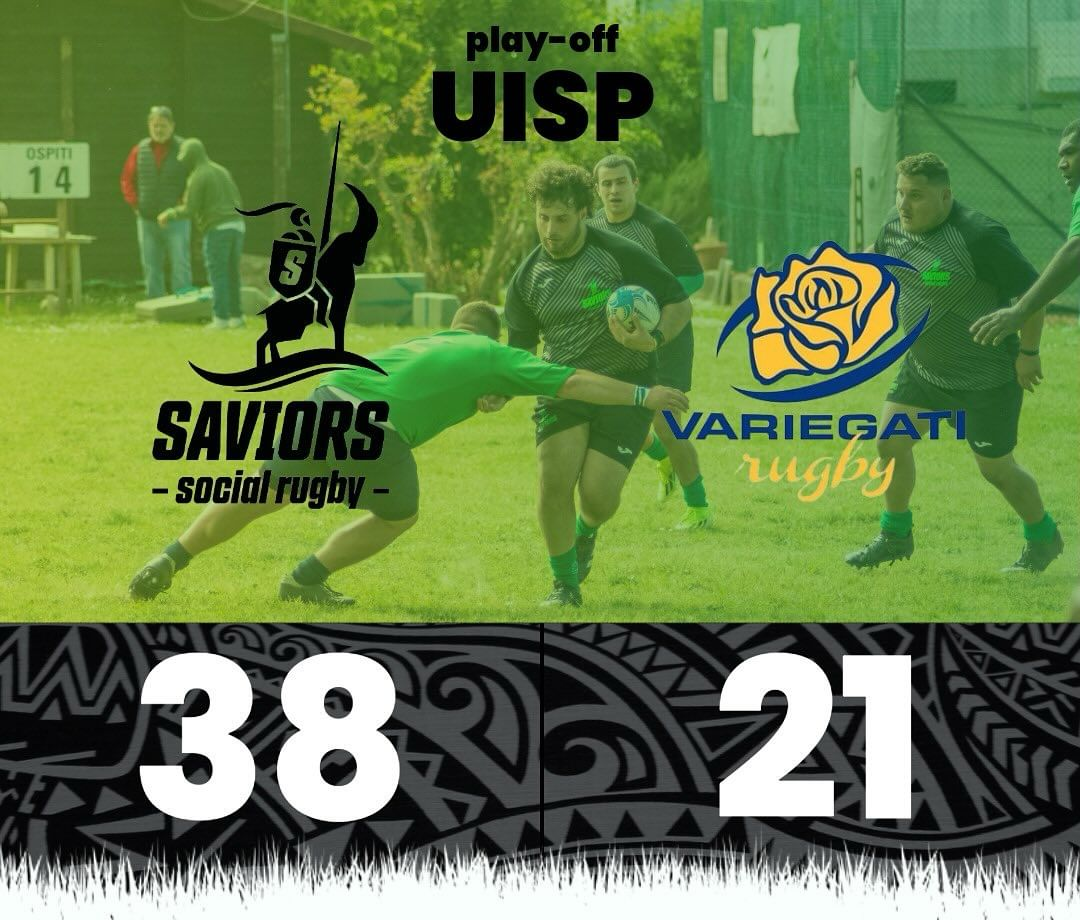
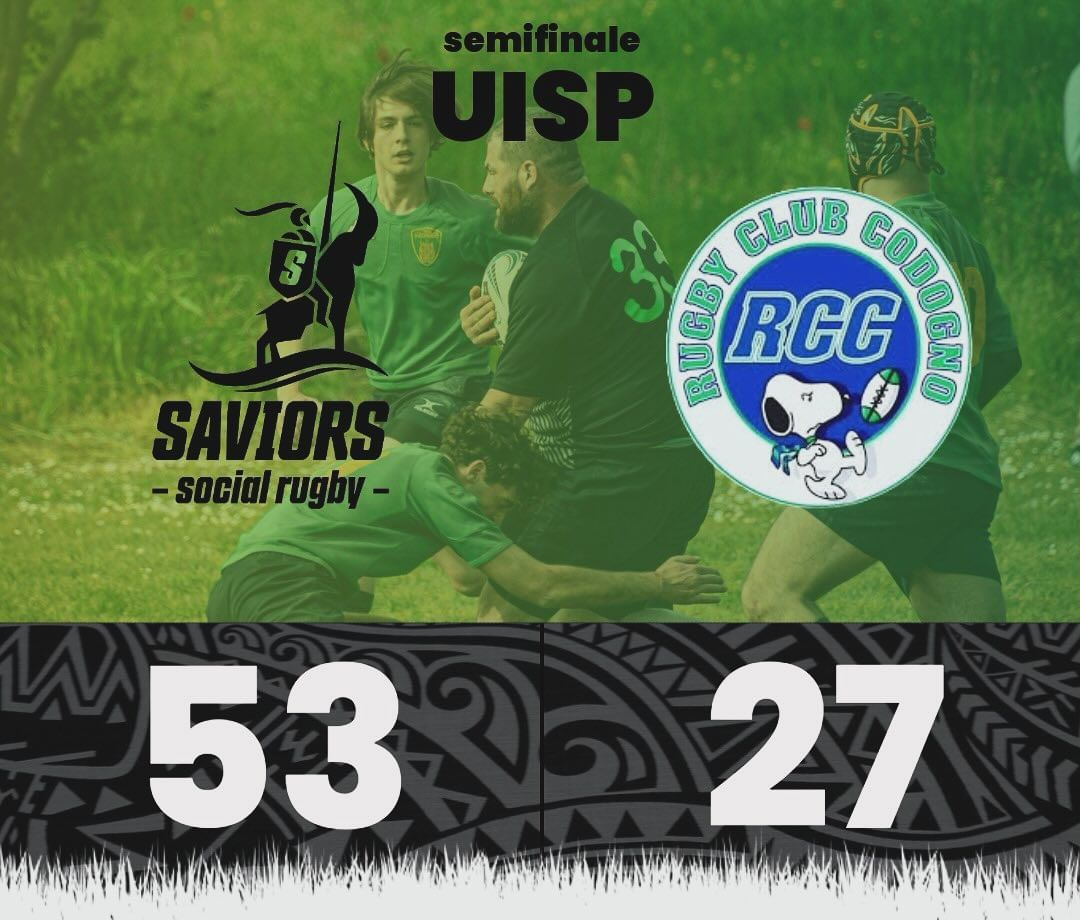
updates

diff --git a/content/posts/championship/20232024/index.md b/content/posts/championship/20232024/index.md
@@ -46,17 +46,17 @@ weight: 3
 
 ### Semifinale Gold 1 - 05/05/2023
 
-|                              | VS  |                           | Risultato | Mete | Orario |
-| ---------------------------- | --- | ------------------------- | --------- | ---- | ------ | -------------------------- |
-| Rondoni Rugby ASD            | VS  | Stella Rossa Rugby Milano | -         | -    | 15:00  | Robegano (VE)              |
-| **Saviors Social Rugby ASD** | VS  | Rugby Club Codogno        | -         | -    | 15:00  | Via Roversano 2815, Cesena |
+|                              | VS  |                           | Risultato | Mete  | Orario |
+| ---------------------------- | --- | ------------------------- | --------- | ----- | ------ | -------------------------- |
+| Rondoni Rugby ASD            | VS  | Stella Rossa Rugby Milano | 16 - 12   | 1 - 0 | 15:00  | Robegano (VE)              |
+| **Saviors Social Rugby ASD** | VS  | Rugby Club Codogno        | 53 - 27   | 8 - 4 | 15:00  | Via Roversano 2815, Cesena |
 
 ### Semifinale Bowl 1 - 05/05/2023
 
-|                   | VS  |                  | Risultato | Mete | Orario |
-| ----------------- | --- | ---------------- | --------- | ---- | ------ | -------- |
-| A.S. Rugby Milano | VS  | Putei Veci Rugby | -         | -    | 15:00  | Milano   |
-| LionSabres        | VS  | Variegati Rugby  | -         | -    | 15:00  | Rho (MI) |
+|                   | VS  |                  | Risultato | Mete  | Orario |
+| ----------------- | --- | ---------------- | --------- | ----- | ------ | -------- |
+| A.S. Rugby Milano | VS  | Putei Veci Rugby | 9 - 17    | 0 - 3 | 15:00  | Milano   |
+| LionSabres        | VS  | Variegati Rugby  | 14 - 31   | 2 - 5 | 15:00  | Rho (MI) |
 
 ### Quarti di Finale - 21/04/2023
 

diff --git a/content/posts/last-match/index.md b/content/posts/last-match/index.md
@@ -1,5 +1,5 @@
 ---
-title: Ultimo Match<br/>Saviors vs Variegati (38 - 21)
+title: Ultimo Match<br/>Saviors vs Codogno (53 - 27)
 date: "2023-11-12"
 sharingLinks:
   - facebook
@@ -7,16 +7,16 @@ sharingLinks:
   - telegram
 tags:
   - Saviors
-  - Variegati
+  - Codogno
 showDate: false
 showHeadingAnchors: false
 showHero: false
 weight: 1
 ---
 
-| Giornata | Data       | Casa                         | Ospiti          | Orario | Indirizzo          |
-| -------- | ---------- | ---------------------------- | --------------- | ------ | ------------------ |
-| Quarto 4 | 21/04/2024 | **Saviors Social Rugby ASD** | Variegati Rugby | 15:30  | Via Roversano 2815 |
+| Giornata          | Data       | Casa                         | Ospiti             | Orario | Indirizzo                  |
+| ----------------- | ---------- | ---------------------------- | ------------------ | ------ | -------------------------- |
+| Semifinale Gold 1 | 05/05/2024 | **Saviors Social Rugby ASD** | Rugby Club Codogno | 16:00  | Via Roversano 2815, Cesena |
 
 ![](./featured.jpg)
 

diff --git a/content/posts/next-match/index.md b/content/posts/next-match/index.md
@@ -1,5 +1,5 @@
 ---
-title: Prossimo Match<br/>Saviors vs Codogno
+title: Prossimo Match<br/>Codogno vs Saviors
 date: "2023-11-12"
 sharingLinks:
   - facebook
@@ -14,9 +14,9 @@ showHero: false
 weight: 1
 ---
 
-| Giornata          | Data       | Casa                         | Ospiti             | Orario | Indirizzo                  |
-| ----------------- | ---------- | ---------------------------- | ------------------ | ------ | -------------------------- |
-| Semifinale Gold 1 | 05/05/2024 | **Saviors Social Rugby ASD** | Rugby Club Codogno | 15:00  | Via Roversano 2815, Cesena |
+| Giornata          | Data       | Casa             | Ospiti                       | Orario | Indirizzo    |
+| ----------------- | ---------- | ---------------- | ---------------------------- | ------ | ------------ |
+| Semifinale Gold 2 | 19/05/2024 | Rugby Club Cogno | **Saviors Social Rugby ASD** | 15:00  | Codogno (LO) |
 
 ![](./featured.jpg)
 
